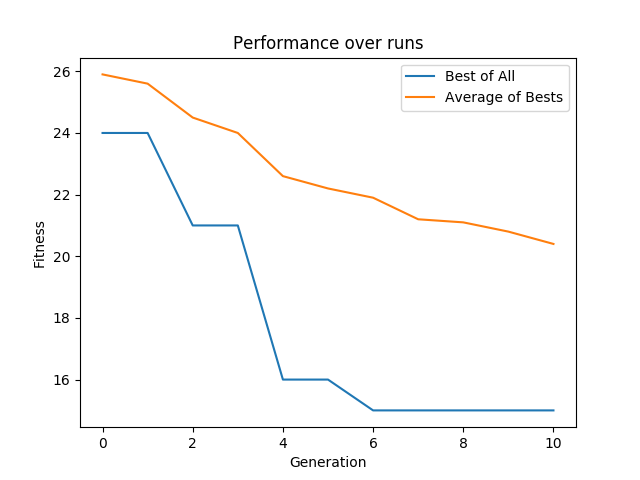
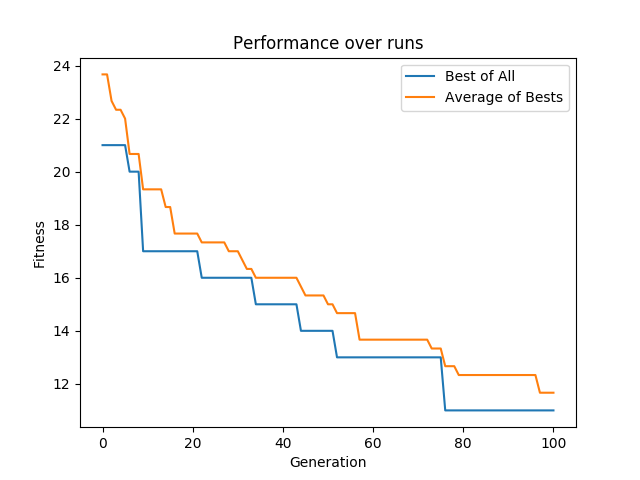
finished experimental setup

diff --git a/ea_sudoku_simple.py b/ea_sudoku_simple.py
@@ -13,14 +13,23 @@ import numpy as np
 
 def run(numb_runs,numb_generations,size_pop, size_cromo, prob_mut, prob_cross,sel_parents,recombination,mutation,sel_survivors, fitness_func, gen_function, fix_func,givens):
     statistics = []
+    generations = []
+    final_conflicts = []
     for i in range(numb_runs):
         seed(i)
-        best, stat_best, stat_aver = sea_for_plot(numb_generations,size_pop, size_cromo, prob_mut,prob_cross,sel_parents,recombination,mutation,sel_survivors, fitness_func, gen_function, fix_func,givens)
+        best, stat_best, stat_aver,gen = sea_for_plot(numb_generations,size_pop, size_cromo, prob_mut,prob_cross,sel_parents,recombination,mutation,sel_survivors, fitness_func, gen_function, fix_func,givens)
+        final_conflicts.append(best[1])
         statistics.append(stat_best)
+        generations.append(gen)
     stat_gener = list(zip(*statistics))
     best = [min(g_i) for g_i in stat_gener] # minimization
     aver_gener =  [sum(g_i)/len(g_i) for g_i in stat_gener]
-    return best, aver_gener
+
+    best_generation = min(generations)
+    aver_generation = np.mean(generations)
+    numb_solution = len([x for x in generations if x < numb_generations-1])
+
+    return best, aver_gener,final_conflicts,best_generation,aver_generation,numb_solution
 
 # Return the best plus, best by generation, average population by generation
 def sea_for_plot(numb_generations,size_pop, size_cromo, prob_mut,prob_cross,sel_parents,recombination,mutation,sel_survivors, fitness_func, gen_function, fix_func, givens):
@@ -57,8 +66,15 @@ def sea_for_plot(numb_generations,size_pop, size_cromo, prob_mut,prob_cross,sel_
         # Estatistica
         stat.append(best_pop(population)[1])
         stat_aver.append(average_pop(population))
+
+        if best_pop(population)[1] == 0:
+            #fill stat with zeros to allow plot to show values until final generation
+            while len(stat)<numb_generations:
+                stat.append(0)
+            #stop algorithm as it found the solution
+            break
     
-    return best_pop(population),stat, stat_aver
+    return best_pop(population),stat, stat_aver,i
 
 
 # Variation operators: Swap mutation for sub-blocks        

diff --git a/sudoku.py b/sudoku.py
@@ -155,6 +155,9 @@ if __name__ == '__main__':
 
     best_solutions = []
     aver_solutions = []
+    best_generations = []
+    aver_generations = []
+    numb_solutions = []
 
     for i in range(len(files)):
         file = files[i]
@@ -172,15 +175,25 @@ if __name__ == '__main__':
         #display_stat_1(stat,stat_average)
         #print(best)
 
-        best,stat_average = run(n_runs, generations, pop_size,cromo_size,prob_muta,prob_cross,tour_sel(tour_size),cross_function,swap_muta,sel_survivors_elite(elite_percent), my_fitness, gen_function, fix_func, givens)
+        best,stat_average,final_conflicts,best_generation,aver_generation,numb_solution = run(n_runs, generations, pop_size,cromo_size,prob_muta,prob_cross,tour_sel(tour_size),cross_function,swap_muta,sel_survivors_elite(elite_percent), my_fitness, gen_function, fix_func, givens)
         display_stat_n(best,stat_average,i)
 
-        # write best to file     
-        best_solutions.append(min(best))   
-        aver_solutions.append(np.mean(best))
+        # collect for printing to files
+        best_solutions.append(min(final_conflicts))   
+        aver_solutions.append(np.mean(final_conflicts))
+        best_generations.append(best_generation)
+        aver_generations.append(aver_generation)
+        numb_solutions.append(numb_solution)
 
+    # print results to files
     f = open('./experiments/final_conflicts.csv', 'w')
     f.write('file,best,average\n')
     for i in range(len(best_solutions)):
         f.write(str(i+1)+","+str(best_solutions[i])+","+str(aver_solutions[i])+"\n")
     f.close()
+
+    f2 = open('./experiments/generations.csv', 'w')
+    f2.write('file,best_generation,average_generation,found_solutions\n')
+    for i in range(len(best_generations)):
+        f2.write(str(i+1)+","+str(best_generations[i])+","+str(aver_generations[i])+","+str(numb_solutions[i])+"\n")
+    f2.close()

diff --git a/config.py b/config.py
@@ -1,5 +1,5 @@
-runs = 10
-generations = 10
+runs = 30
+generations = 10000
 pop_size = 150
 prob_muta = 0.3
 prob_cross = 0.0

diff --git a/README.md b/README.md
@@ -10,15 +10,17 @@ This project was done as a student work for a course at the University of Coimbr
 
 ## Test Cases & Evaluation
 
+The project uses sudokus from the following paper:
+https://www.researchgate.net/publication/224180108_Solving_Sudoku_with_genetic_operations_that_preserve_building_blocks
+
 The algorithm is tested on Suduko puzzles of different orders which can be found here:
 http://www.ee.cityu.edu.hk/~rcheung/FPT/FPT09/comp/benchmarks.html
 
-Consult also examples from:
-https://www.researchgate.net/publication/224180108_Solving_Sudoku_with_genetic_operations_that_preserve_building_blocks
 
 Measurements:
-- generation when optimal solution was found
-- conflicts after some fixed generations or time
+- best, average generation when solution was found
+- best, average conflicts after fixed number of generations
+- plot for performance over runs
 - runtime
 
 
@@ -28,17 +30,19 @@ Measurements:
 - 2D chromosome
 
 ### Cross-over
-- uniform, one-point, two-points cross-over on whole sub-blocks (points are limited to links between sub-blocks)
-- How about fixed initial points? - fix later by random swap in sub-block, not allow to change
+- block or row swap cross-over
+- givens are swapped to original places afterwards
+- sub-blocks were transformed into valid permutations in case duplicated numbers exist
 
 ### Mutation
-- for each sub-block: swap non-fixed integers
+- for each sub-block: swap non-given numbers
 
 
 ## Variants
-- Simple as described above
-- More complex operators: maybe forbid incorrect mutations which create duplicates in columns or rows
-- add restart
+- Simple as described above (containing, swap mutation and swap cross-overs as well as a fitness function which counts conflicts only)
+- More complex operators (future)
+- Better initialization (future)
+- Different EA procedures (random restart or similar, future)
 
 ## Related Papers
 - Solving, Rating and Generating Sudoku Puzzles with GA - Timo Mantere and Janne Koljonen

diff --git a/experiments/readme.md b/experiments/readme.md
@@ -8,9 +8,7 @@ The final evaluation is based on 30 runs with 100k generations and all files. Fo
 
 
 *** Metrics
-- Furthermore, it is measured how often the runs found the solution for the sudoku.
-- Also the best and average generation for finding the solution are good metrics for the algorithm quality.
-
-
-- The minimum and average number of conflicts after all generations are metrics used for evaluation. (final_conflicts.csv)
-- A plot for the performance over generations can also be used for analysis.
+- The number of runs where the solution for the sudoku was found.
+- The best and average generation when the solution was found.
+- The minimum and average number of conflicts after all generations (final_conflicts.csv)
+- Plots for the performance over generations for each file can also be used for the analysis.
